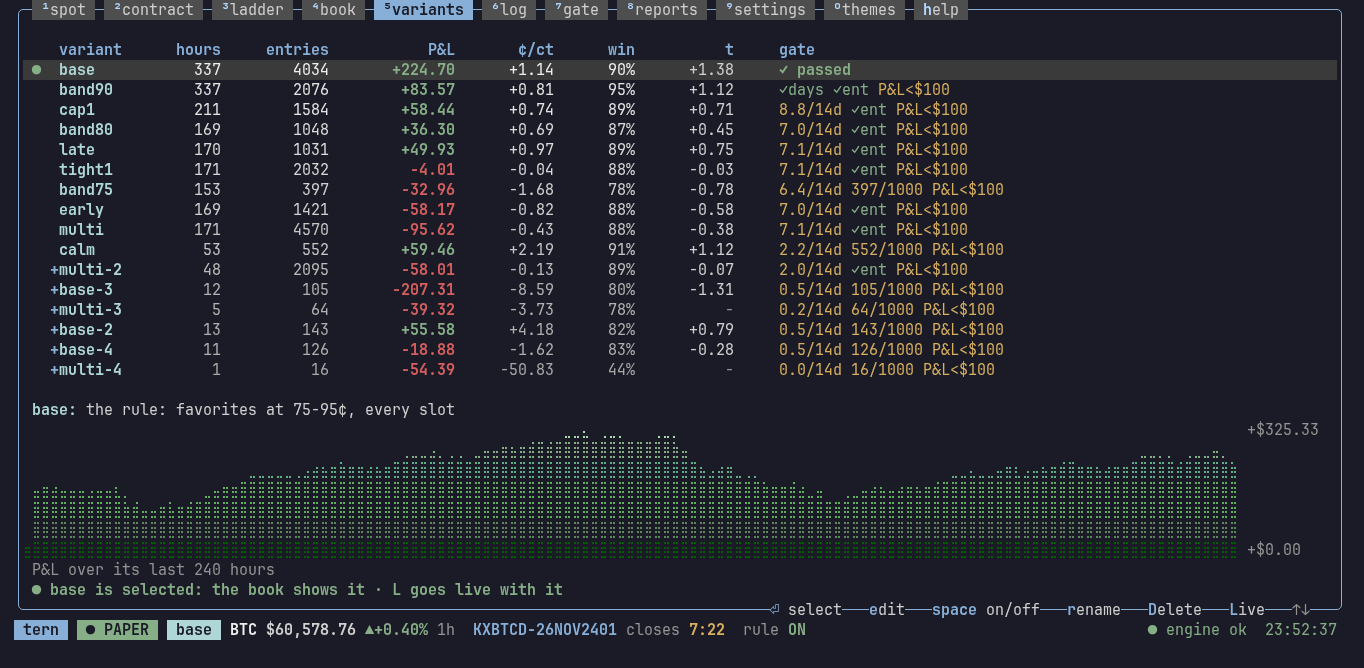
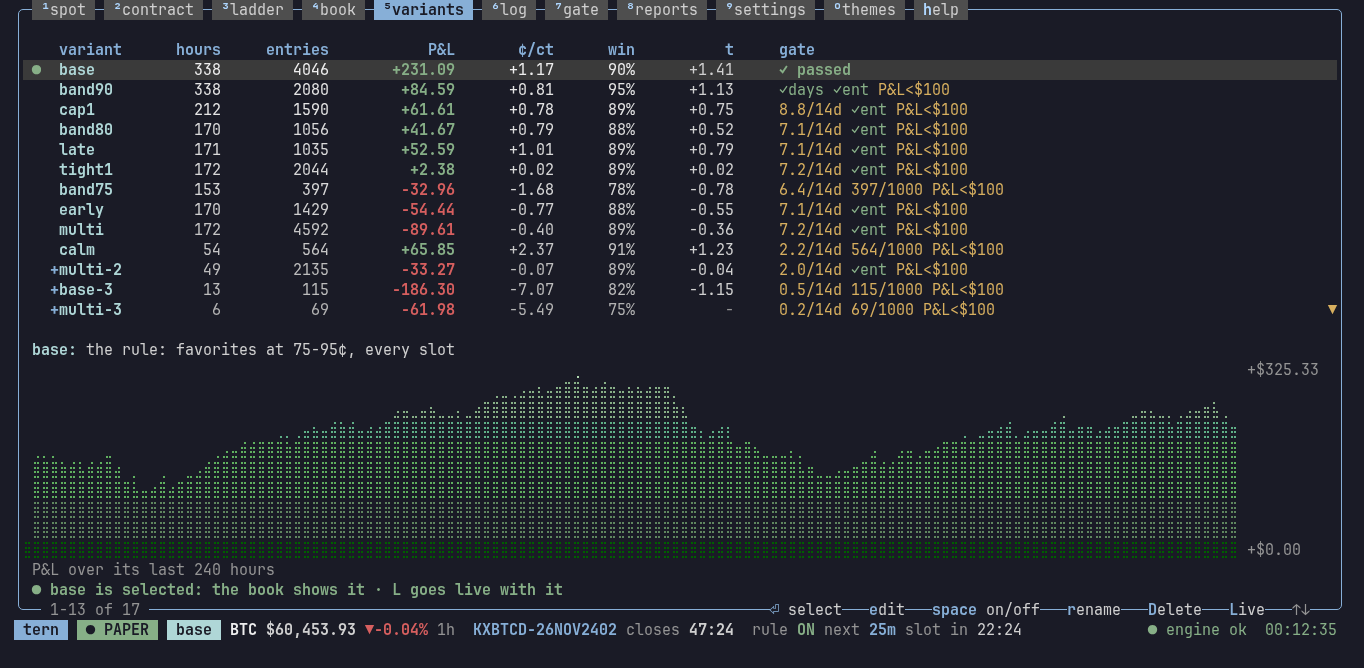
Variants: the graph keeps its size, taller, and the list scrolls over it

diff --git a/tern/dash.py b/tern/dash.py
@@ -1155,8 +1155,11 @@ class Screen:
             self.put(y + 1, at[name], f"{name:>{cw}}", head)
         at["gate"] = cx + gap
         self.put(y + 1, x + 5, "variant", head); self.put(y + 1, at["gate"], "gate", head)
-        # The list scrolls under the fixed header: the rows that fit, moved so the highlighted one shows
-        rows = max(1, min(len(vs), h - 3))
+        # The graph's size is the box's alone, whatever the list holds. The list scrolls over it, under its fixed header:
+        # the rows that fit, moved so the highlighted one shows.
+        gh = h // 3
+        gy = y + h - 3 - gh
+        self.var_rows = rows = gy - y - 4
         si = names.index(self.var_sel)
         self.var_top = max(0, min(self.var_top, len(vs) - rows))
         if si < self.var_top:
@@ -1208,48 +1211,43 @@ class Screen:
             self.put(y + 1, x + w - 2, "▲", P(YELLOW))
         if top + rows < len(vs):
             self.put(y + 2 + rows - 1, x + w - 2, "▼", P(YELLOW))
+        self.count_lines(y + h - 1, x + 3, top, rows, len(vs))
         cur = next(v for v in vs if v["name"] == self.var_sel)
-        yy = y + 3 + rows
-        if yy >= y + h - 2:                            # a short box: the rows and the tip line are all that fit
-            yy = y + h - 2
-        else:
-            nm = cur["name"] if self.vn(cur["name"]) == cur["name"] else f"{self.vn(cur['name'])} ({cur['name']})"
-            nm = "+ " + nm if cur.get("own") else nm
-            self.put(yy, x + 2, f"{nm}: ", P(P.c("variant"), bold=True))
-            self.put(yy, x + 4 + len(nm), (cur.get("desc") or "")[:w - 8 - len(nm)], P(WHITE))
+        nm = cur["name"] if self.vn(cur["name"]) == cur["name"] else f"{self.vn(cur['name'])} ({cur['name']})"
+        nm = "+ " + nm if cur.get("own") else nm
+        self.put(gy - 1, x + 2, f"{nm}: ", P(P.c("variant"), bold=True))
+        self.put(gy - 1, x + 4 + len(nm), (cur.get("desc") or "")[:w - 8 - len(nm)], P(WHITE))
         curve = cur.get("curve") or []
-        gy, gh = yy + 1, y + h - 3 - (yy + 1)
         gw = w - 2 - 11
-        if len(curve) >= 2 and gh >= 2:
+        if len(curve) >= 2:
             vals = [0.0] + curve
             lo, hi = min(vals), max(vals)
             vals = [vals[i * len(vals) // (gw * 2)] for i in range(gw * 2)] if len(vals) < gw * 2 else vals   # the whole width
             pad = (hi - lo) * 0.1 or 1.0
             self.graph(gy, x + 1, gh, gw, vals, lo - pad, hi + pad, P.grad("eq_up" if vals[-1] >= 0 else "eq_dn"), [(0.0, P.grey)], fit=True)
             zr = int(round((hi + pad) / (hi - lo + 2 * pad) * (gh - 1)))
-            if 0 < zr < gh - 1:
+            if lo < 0 < hi and 0 < zr < gh - 1:
                 self.put(gy + zr, x + 1 + gw + 1, "$0", P(self.P.grey))
             self.put(gy, x + 1 + gw + 1, money(hi, True)[:10], P(self.P.grey))
             self.put(gy + gh - 1, x + 1 + gw + 1, money(lo, True)[:10], P(self.P.grey))
             self.put(gy + gh, x + 2, f"P&L over its last {len(curve)} hours", P(self.P.grey))
-        elif gh >= 1 and len(curve) < 2:
-            self.put(gy + 1, x + 3, "the curve starts after a couple of settled hours", P(self.P.grey))
-        # The bottom row says what the highlighted variant is doing. On a short box the row is the last variant's.
-        if y + 1 + rows < y + h - 2:
-            name, sel_, live = self.vn(cur["name"]), cur["name"] == self.variant, cur.get("live") and st.get("live_enabled")
-            tip, col = "", GREEN
-            if not cur.get("on", True):
-                tip, col = f"{name} is off: no new entries, open ones settle · space turns it on", YELLOW
-            elif cur.get("cash") is not None and cur["cash"] < (cur.get("rule") or {}).get("band_lo", 0) and not cur.get("open"):
-                tip, col = f"{name} has {money(cur['cash'])} left: it buys nothing · e, s makes a fresh one", YELLOW
-            elif live:
-                tip, col = f"L live trades {name}" + (" · selected" if sel_ else ""), RED
-            elif sel_:
-                tip = f"● {name} is selected: the book shows it · L goes live with it" + \
-                    ("" if (cur.get("gate") or {}).get("passed") else ", once it passes the gate")
-            else:
-                tip, col = f"enter selects {name} · changes nothing that trades", P.grey
-            self.put(y + h - 2, x + 2, tip[:w - 4], P(col, bold=col != P.grey))
+        else:
+            self.put(gy + gh // 2, x + 3, "the curve starts after a couple of settled hours", P(self.P.grey))
+        # The bottom row says what the highlighted variant is doing.
+        name, sel_, live = self.vn(cur["name"]), cur["name"] == self.variant, cur.get("live") and st.get("live_enabled")
+        tip, col = "", GREEN
+        if not cur.get("on", True):
+            tip, col = f"{name} is off: no new entries, open ones settle · space turns it on", YELLOW
+        elif cur.get("cash") is not None and cur["cash"] < (cur.get("rule") or {}).get("band_lo", 0) and not cur.get("open"):
+            tip, col = f"{name} has {money(cur['cash'])} left: it buys nothing · e, s makes a fresh one", YELLOW
+        elif live:
+            tip, col = f"L live trades {name}" + (" · selected" if sel_ else ""), RED
+        elif sel_:
+            tip = f"● {name} is selected: the book shows it · L goes live with it" + \
+                ("" if (cur.get("gate") or {}).get("passed") else ", once it passes the gate")
+        else:
+            tip, col = f"enter selects {name} · changes nothing that trades", P.grey
+        self.put(y + h - 2, x + 2, tip[:w - 4], P(col, bold=col != P.grey))
 
     def select_variant(self) -> None:
         """enter: the highlighted variant is the one the book, band and gate show. Nothing that trades changes."""

diff --git a/tests/test_tern.py b/tests/test_tern.py
@@ -1565,6 +1565,27 @@ class Tabs(Rig, unittest.TestCase):
             self.press("5", "e")
             self.assertIn("CHANGES", self.text())
 
+    def test_the_variants_graph_keeps_its_size(self):
+        for H, W, room in ((30, 100, 12), (32, 148, 13), (44, 160, 21)):
+            with tempfile.TemporaryDirectory() as d:
+                k, scr = self.setup(d, H, W)
+                self.press("5")
+                at, labels = [], lambda: [i for i, l in enumerate(self.text().splitlines()) if "the curve starts after" in l]
+                for n in range(24):                                            # 10 built in, up to 24 of your own
+                    at.append((labels(), next(i for i, l in enumerate(self.text().splitlines()) if "base: the rule" in l or ": " in l and "every slot" in l)))
+                    self.new(k, name=f"v{n}"); self.sync(); scr.draw()
+                self.assertEqual(len(set(map(str, at))), 1, (H, W, at))        # in one place whatever the list holds
+                names = [v["name"] for v in scr.st["variants"]]
+                self.assertEqual(len(names), 34)
+                rows = lambda: [l for l in self.text().splitlines()[3:3 + room]]
+                self.assertTrue(names[0] in rows()[0] and names[room - 1] in rows()[-1], rows())
+                self.assertIn("▼", rows()[-1]); self.assertIn(f" 1-{room} of 34 ", self.rows()[1])
+                for name in names[1:]:                                         # every one can be reached
+                    self.press(self.curses.KEY_DOWN)
+                    self.assertEqual(scr.var_sel, name); self.assertTrue(any(f" {name} " in l or f"+{name} " in l for l in rows()), name)
+                self.assertNotIn("▼", rows()[-1]); self.assertIn(f" {35 - room}-34 of 34 ", self.rows()[1])
+                self.press(self.curses.KEY_HOME); self.assertEqual(scr.var_sel, names[0])
+
     def test_the_palettes_are_kept_apart(self):
         with tempfile.TemporaryDirectory() as d:
             for H, W in ((30, 100), (31, 104), (44, 160)):

diff --git a/tern/web.py b/tern/web.py
@@ -251,9 +251,8 @@ class WebScreen(dash.Screen):
     def variants_panel(self, y, x, h, w) -> None:
         super().variants_panel(y, x, h, w)
         names = [v["name"] for v in self.st.get("variants") or []]
-        if names:
-            rows = max(1, min(len(names), h - 3))
-            self.rowmap["variants"] = {y + 2 + j: n for j, n in enumerate(names[self.var_top:self.var_top + rows])}
+        if names and self.overlay != "edit":
+            self.rowmap["variants"] = {y + 2 + j: n for j, n in enumerate(names[self.var_top:self.var_top + self.var_rows])}
 
     # ------------------------------------------------------------ input from the page
     def press(self, name: str) -> None:
